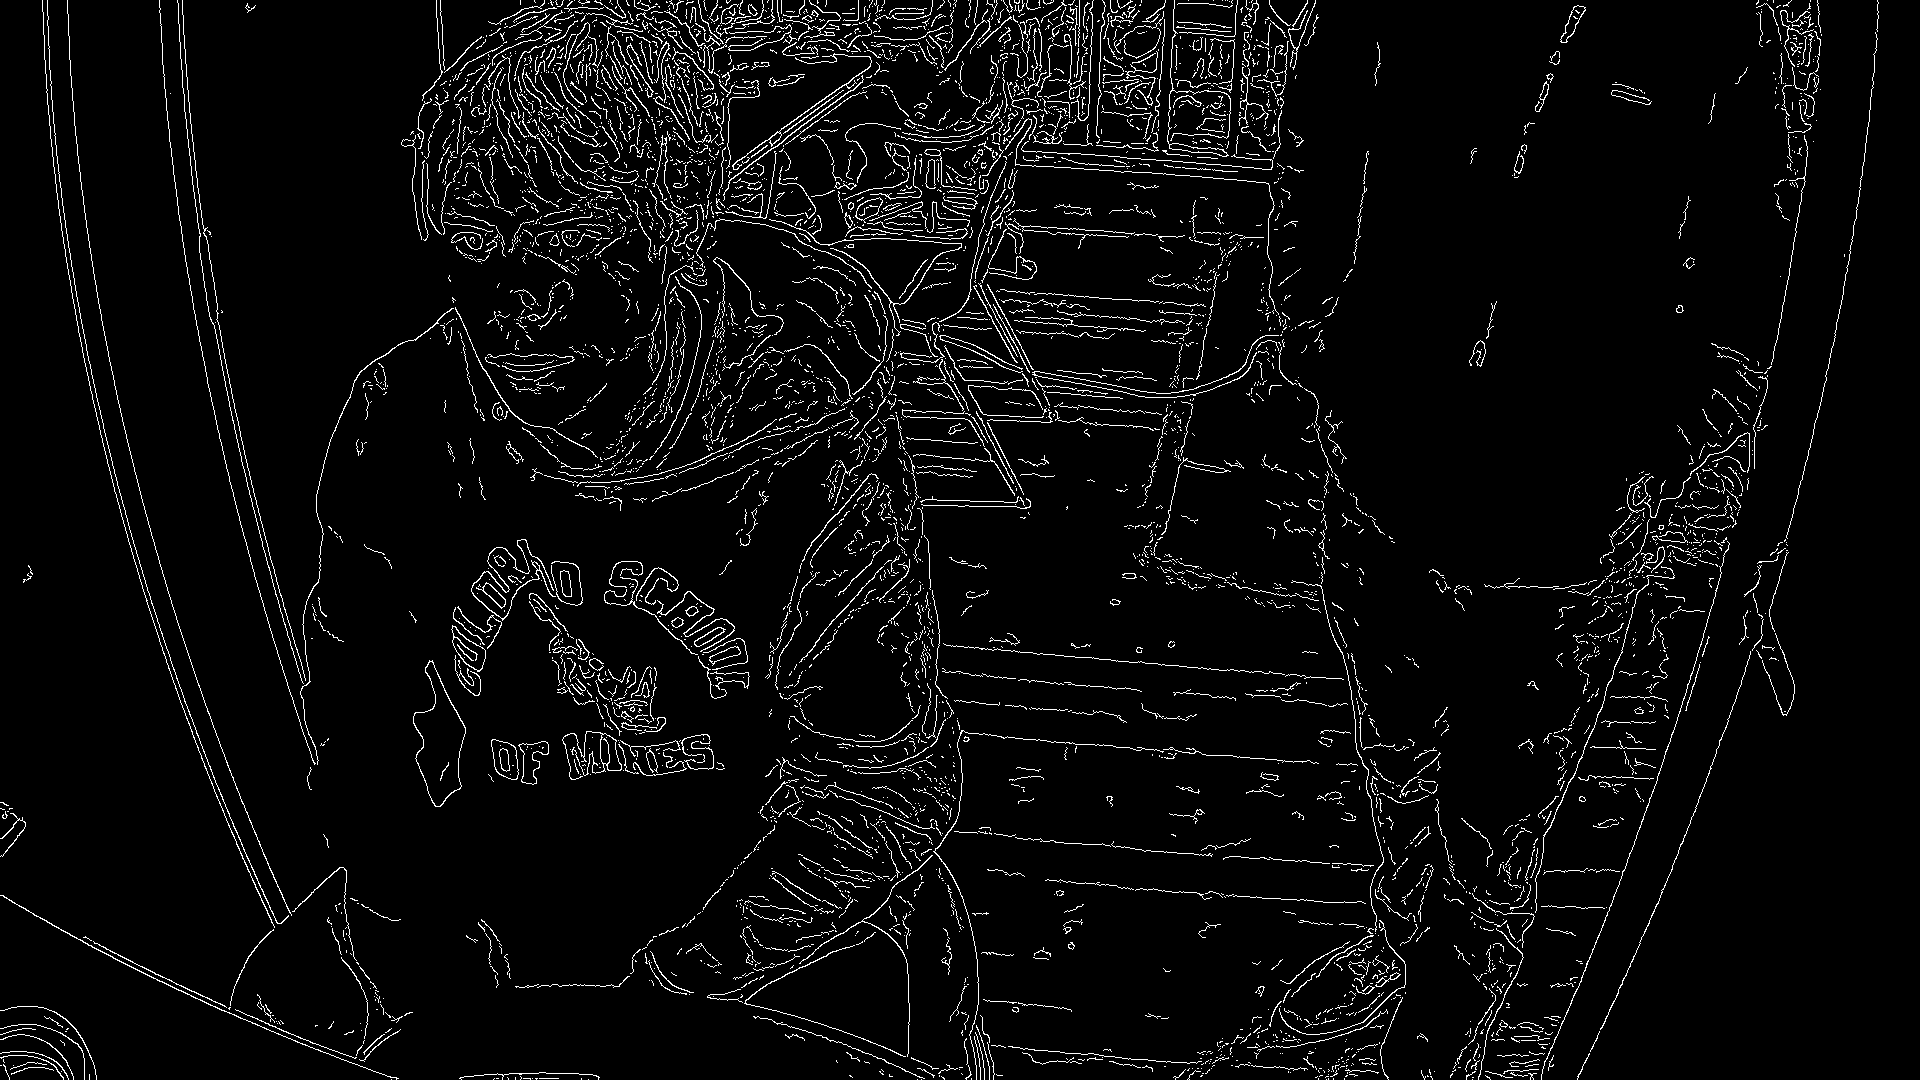
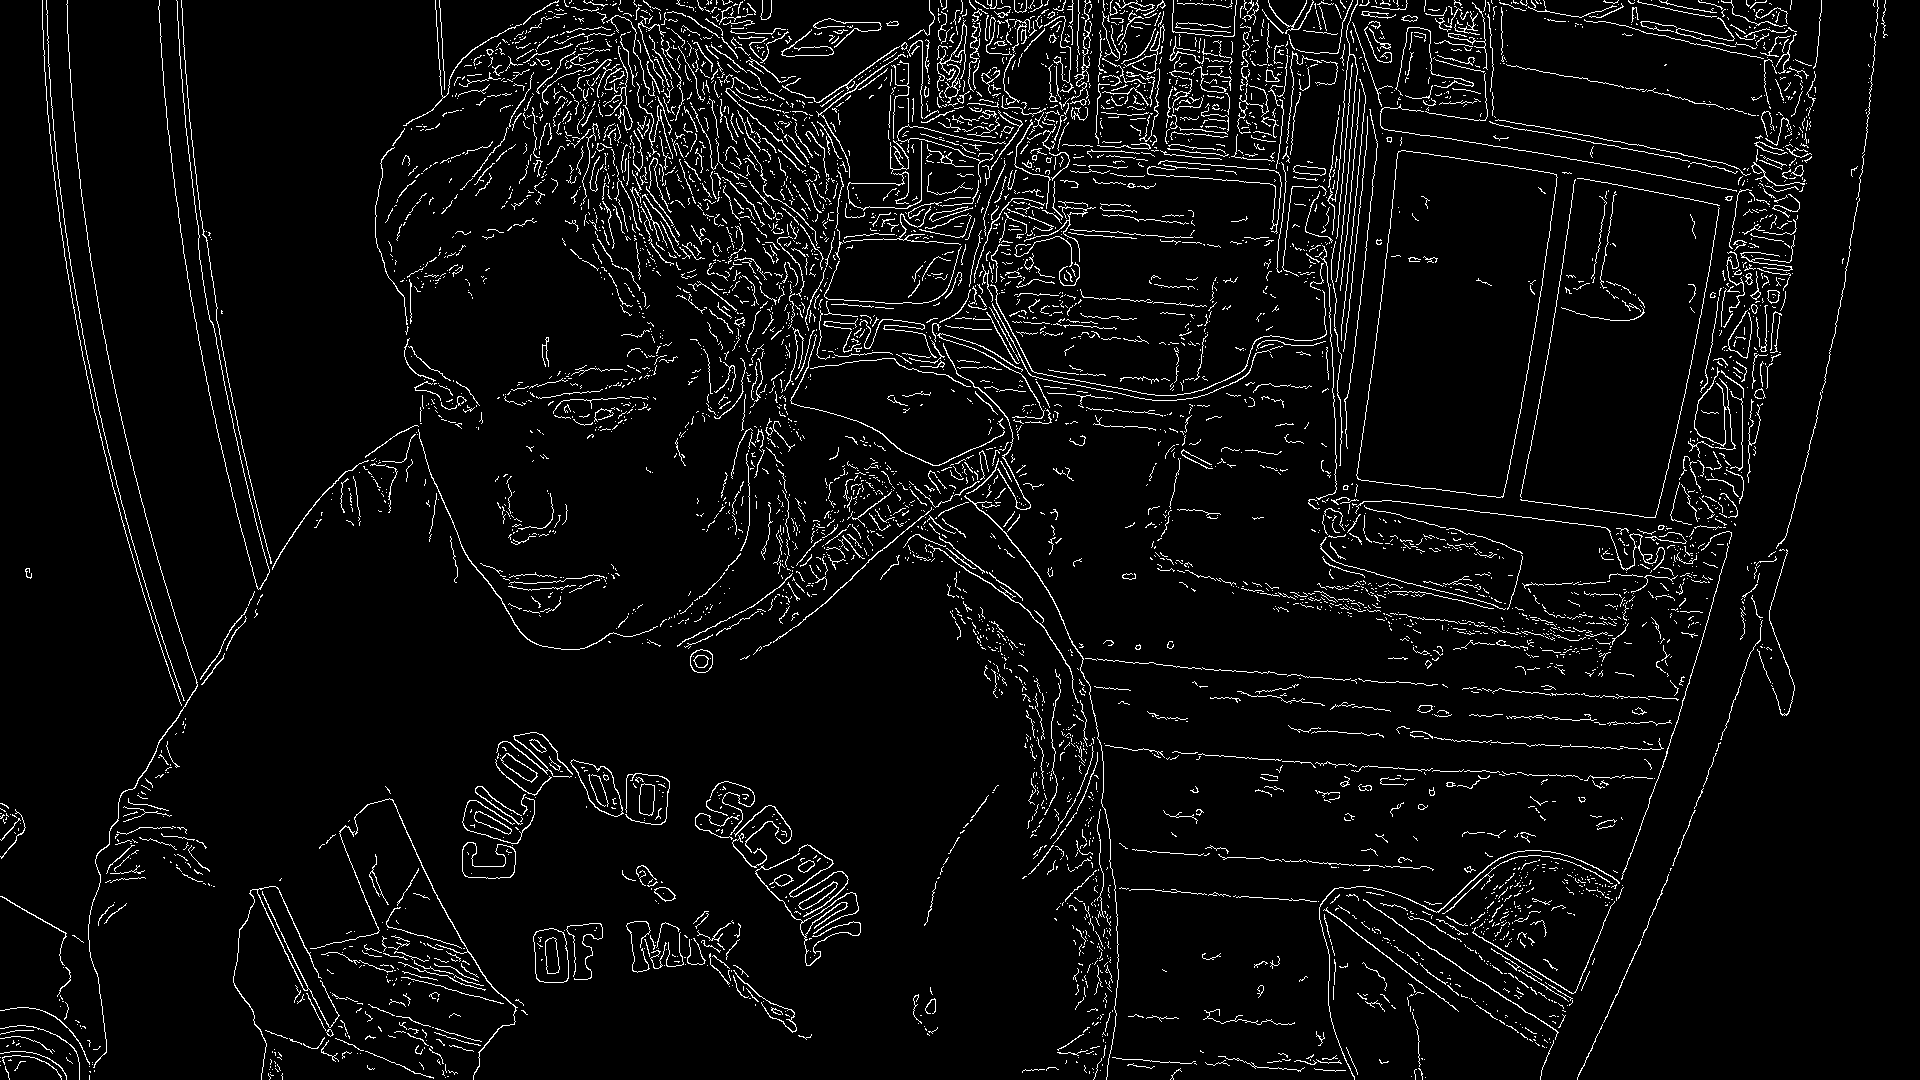
implemented the thresholds and polished the capturing of the image.

diff --git a/photo_booth.py b/photo_booth.py
@@ -137,17 +137,18 @@ class MainWindow(Screen):
         self.take_picture_button.text = "2"
         time.sleep(1)
         self.take_picture_button.text = "1"
-
+        time.sleep(1)
         _, image = self.capture.read()
         # camera = self.ids['camera']
         # print(self.ids)
         # camera.export_to_png("image.png")
         #
         # print("Captured")
-
-
-        Clock.schedule_once(self.switch_to_second_screen, 1)
+        self.take_picture_button.text = "CHEESE"
         remake_edges()
+        Clock.schedule_once(self.switch_to_second_screen, 0)
+        self.take_picture_button.text = "TAKE PICTURE"
+
     def switch_to_second_screen(self, dt):
         SCREEN_MANAGER.current = SECOND_SCREEN_NAME
         SCREEN_MANAGER.transition.direction = "up"
@@ -178,7 +179,7 @@ class SecondWindow(Screen):
 class AjustmentWindow(Screen):
     def update_values(self):
         remake_edges(blur_radius=self.blur_radius.value, upper_thresh=self.edge_sensitivity.value,
-                     min_len=self.min_len.value)
+                     min_len=self.min_len.value, thresholds=[self.threshold1, self.threshold2, self.threshold3, self.threshold4])
 
     def enter(self):
         global new_image
@@ -190,7 +191,10 @@ class AjustmentWindow(Screen):
         self.blur_radius.value = 11
         self.edge_sensitivity.value = 20
         self.min_len.value = 20
-
+        self.threshold1.value = 10
+        self.threshold2.value = 30
+        self.threshold3.value = 50
+        self.threshold4.value = 80
 
 class WindowManager(ScreenManager):
     pass
@@ -199,7 +203,7 @@ class WindowManager(ScreenManager):
 Builder.load_file("photo_booth.kv")
 SCREEN_MANAGER.add_widget(MainWindow(name="main"))
 SCREEN_MANAGER.add_widget(SecondWindow(name="second"))
-
+SCREEN_MANAGER.add_widget(AjustmentWindow(name="ajustment"))
 
 class MyMainApp(App):
     def build(self):
